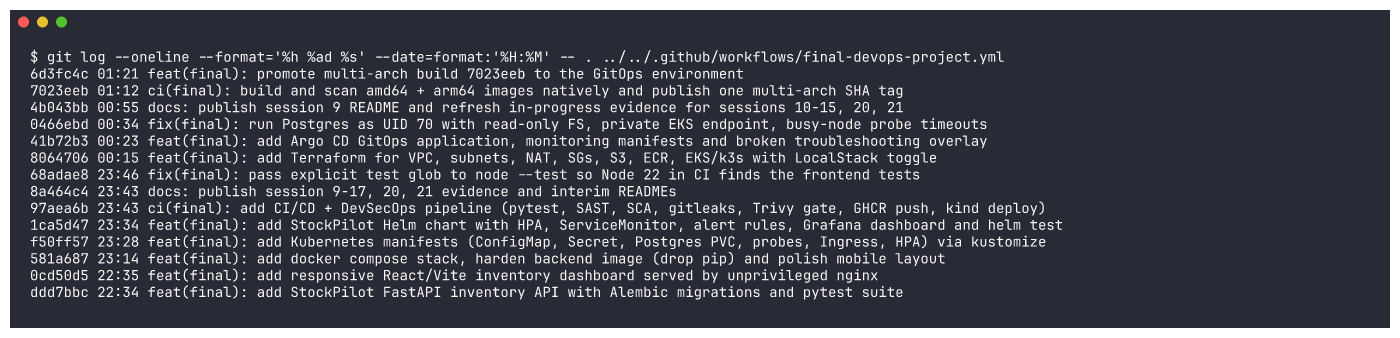
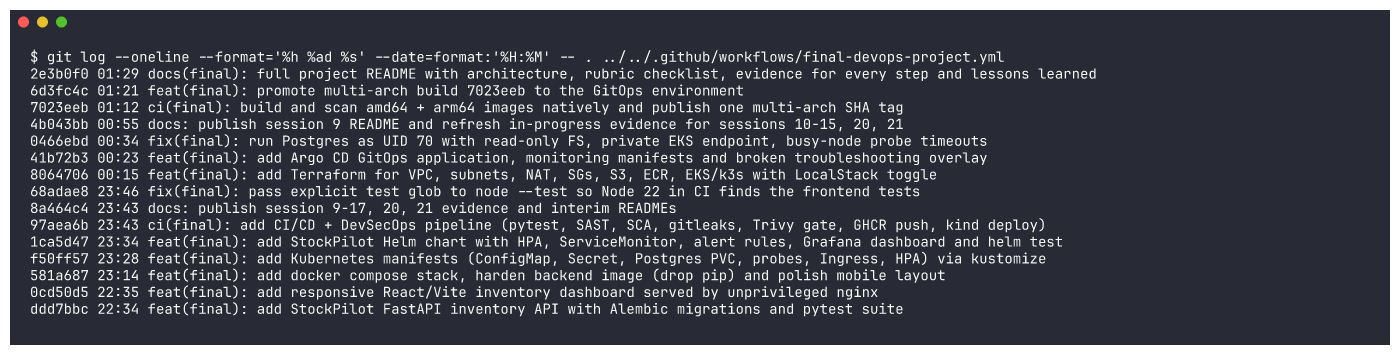
docs(final): refresh final cluster state and commit-history evidence

Changed region(s): [[0.0, 0.1479, 0.7986, 0.8876], [0.0, 0.0592, 0.0307, 0.0888]]

diff --git a/README.md b/README.md
@@ -771,7 +771,7 @@ gh run view -R tanishkothari9/DevOps --log --job 112982403807 | cut -f3 | sed -E
 <sub>Full output: [`outputs/56b-ci-log-push-ghcr-multiarch.txt`](outputs/56b-ci-log-push-ghcr-multiarch.txt)</sub>
 
 
-Pipeline history for this project: run [37665137137](https://github.com/tanishkothari9/DevOps/actions/runs/37665137137) ❌ (frontend test bug, gate blocked push), then [37665562873](https://github.com/tanishkothari9/DevOps/actions/runs/37665562873) ✅, [37669286665](https://github.com/tanishkothari9/DevOps/actions/runs/37669286665) ✅, [37670270022](https://github.com/tanishkothari9/DevOps/actions/runs/37670270022) ✅, [37671753311](https://github.com/tanishkothari9/DevOps/actions/runs/37671753311) ✅ and [37676579566](https://github.com/tanishkothari9/DevOps/actions/runs/37676579566) ✅ (multi-arch). Full list: [workflow runs](https://github.com/tanishkothari9/DevOps/actions/workflows/final-devops-project.yml).
+Pipeline history for this project: run [37665137137](https://github.com/tanishkothari9/DevOps/actions/runs/37665137137) ❌ (frontend test bug, gate blocked push), then [37665562873](https://github.com/tanishkothari9/DevOps/actions/runs/37665562873) ✅, [37669286665](https://github.com/tanishkothari9/DevOps/actions/runs/37669286665) ✅, [37670270022](https://github.com/tanishkothari9/DevOps/actions/runs/37670270022) ✅, [37671753311](https://github.com/tanishkothari9/DevOps/actions/runs/37671753311) ✅ and [37676579566](https://github.com/tanishkothari9/DevOps/actions/runs/37676579566) ✅ (multi-arch) and [37678597656](https://github.com/tanishkothari9/DevOps/actions/runs/37678597656) ✅ (README commit). Full list: [workflow runs](https://github.com/tanishkothari9/DevOps/actions/workflows/final-devops-project.yml).
 
 ### Git history
 
